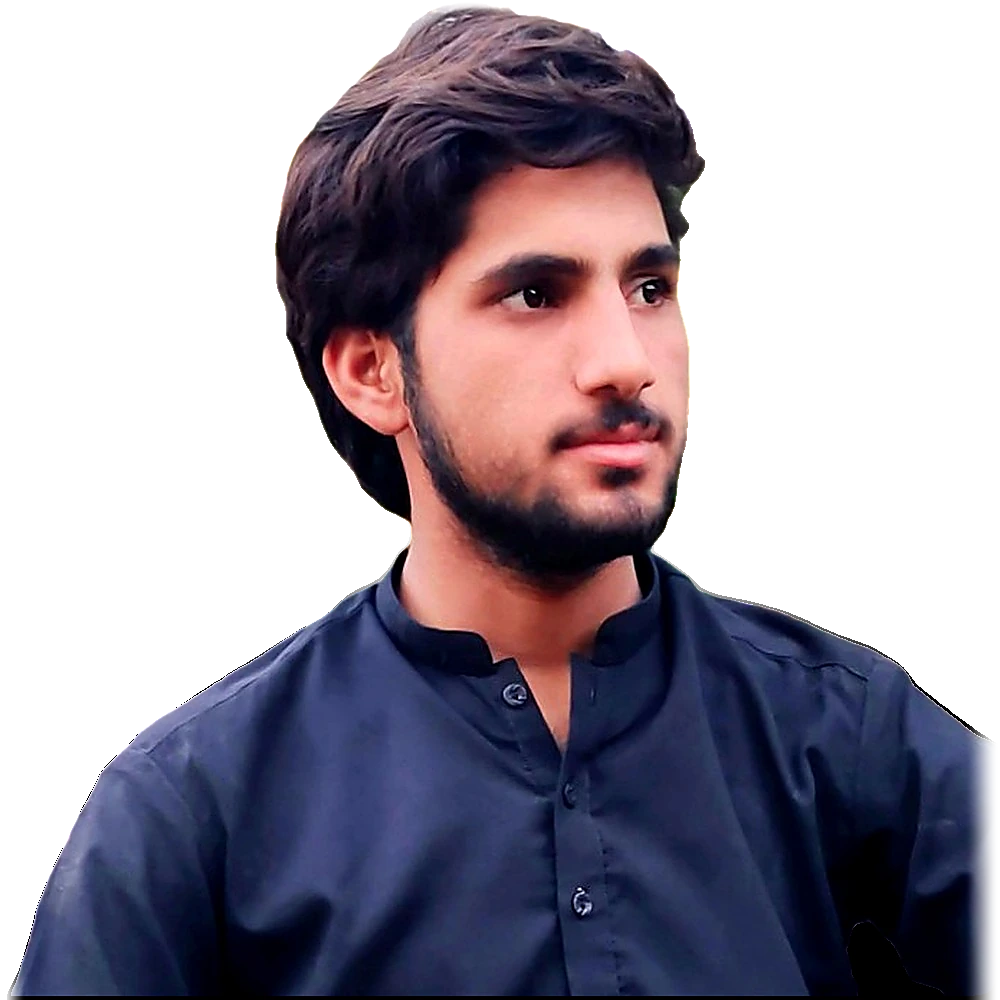
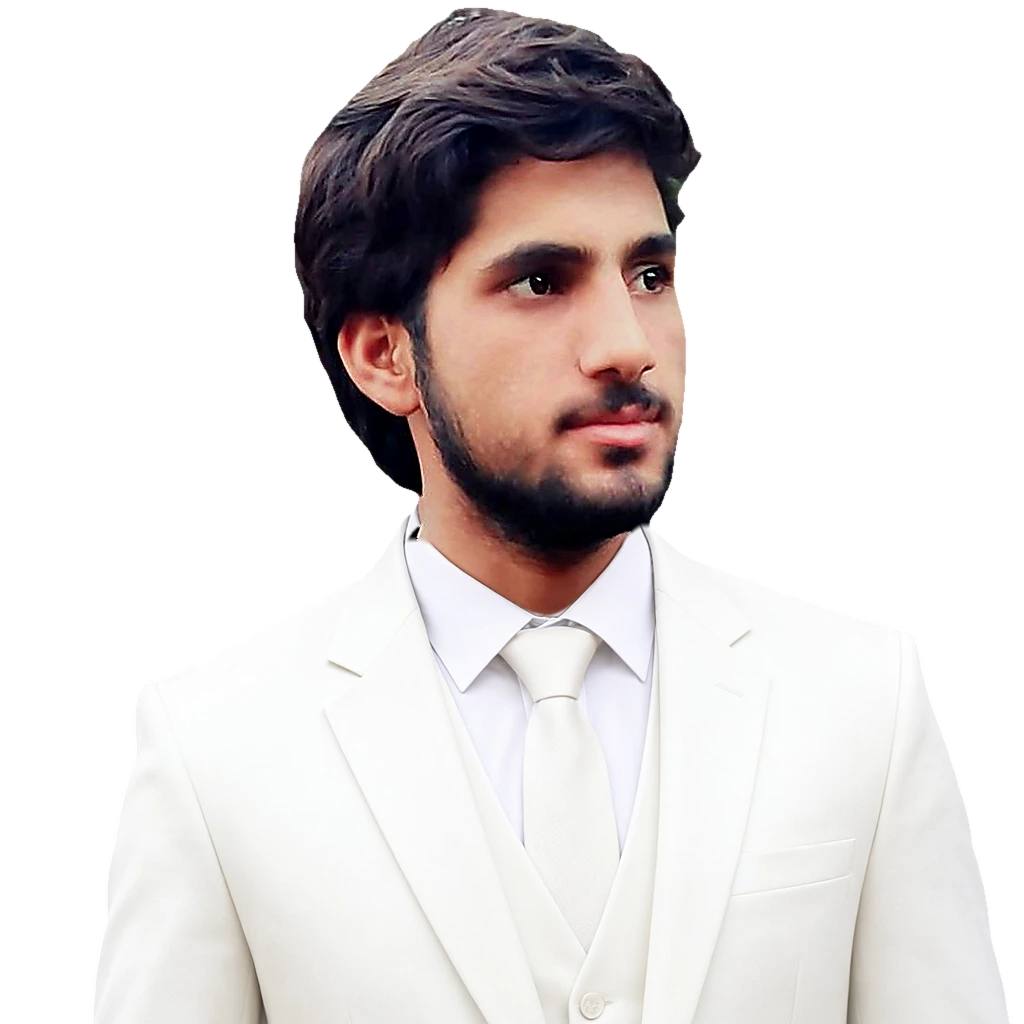
Dress the hero portrait in a white three-piece suit
Keeps the owner's real face and side pose from the existing photo, composites it onto a tailored white three-piece suit, and swaps the hero cut-out and social preview to match.

diff --git a/index.html b/index.html
@@ -22,7 +22,7 @@
       property="og:description"
       content="Portfolio of Shoaib Ali Shahani — Data Scientist and AI/ML Engineer. Projects in machine learning, computer vision, IoT, cybersecurity, and automation."
     />
-    <meta property="og:image" content="https://www.shoaibali.site/profile-alt.jpg" />
+    <meta property="og:image" content="https://www.shoaibali.site/profile-suit.jpg" />
     <meta property="og:image:alt" content="Shoaib Ali Shahani — Data Scientist portfolio" />
     <meta property="og:locale" content="en_US" />
 
@@ -33,7 +33,7 @@
       name="twitter:description"
       content="Portfolio of Shoaib Ali Shahani — Data Scientist and AI/ML Engineer. Projects in machine learning, computer vision, IoT, cybersecurity, and automation."
     />
-    <meta name="twitter:image" content="https://www.shoaibali.site/profile-alt.jpg" />
+    <meta name="twitter:image" content="https://www.shoaibali.site/profile-suit.jpg" />
 
     <link rel="icon" type="image/svg+xml" href="/favicon.svg" />
     <link rel="apple-touch-icon" href="/favicon.svg" />
